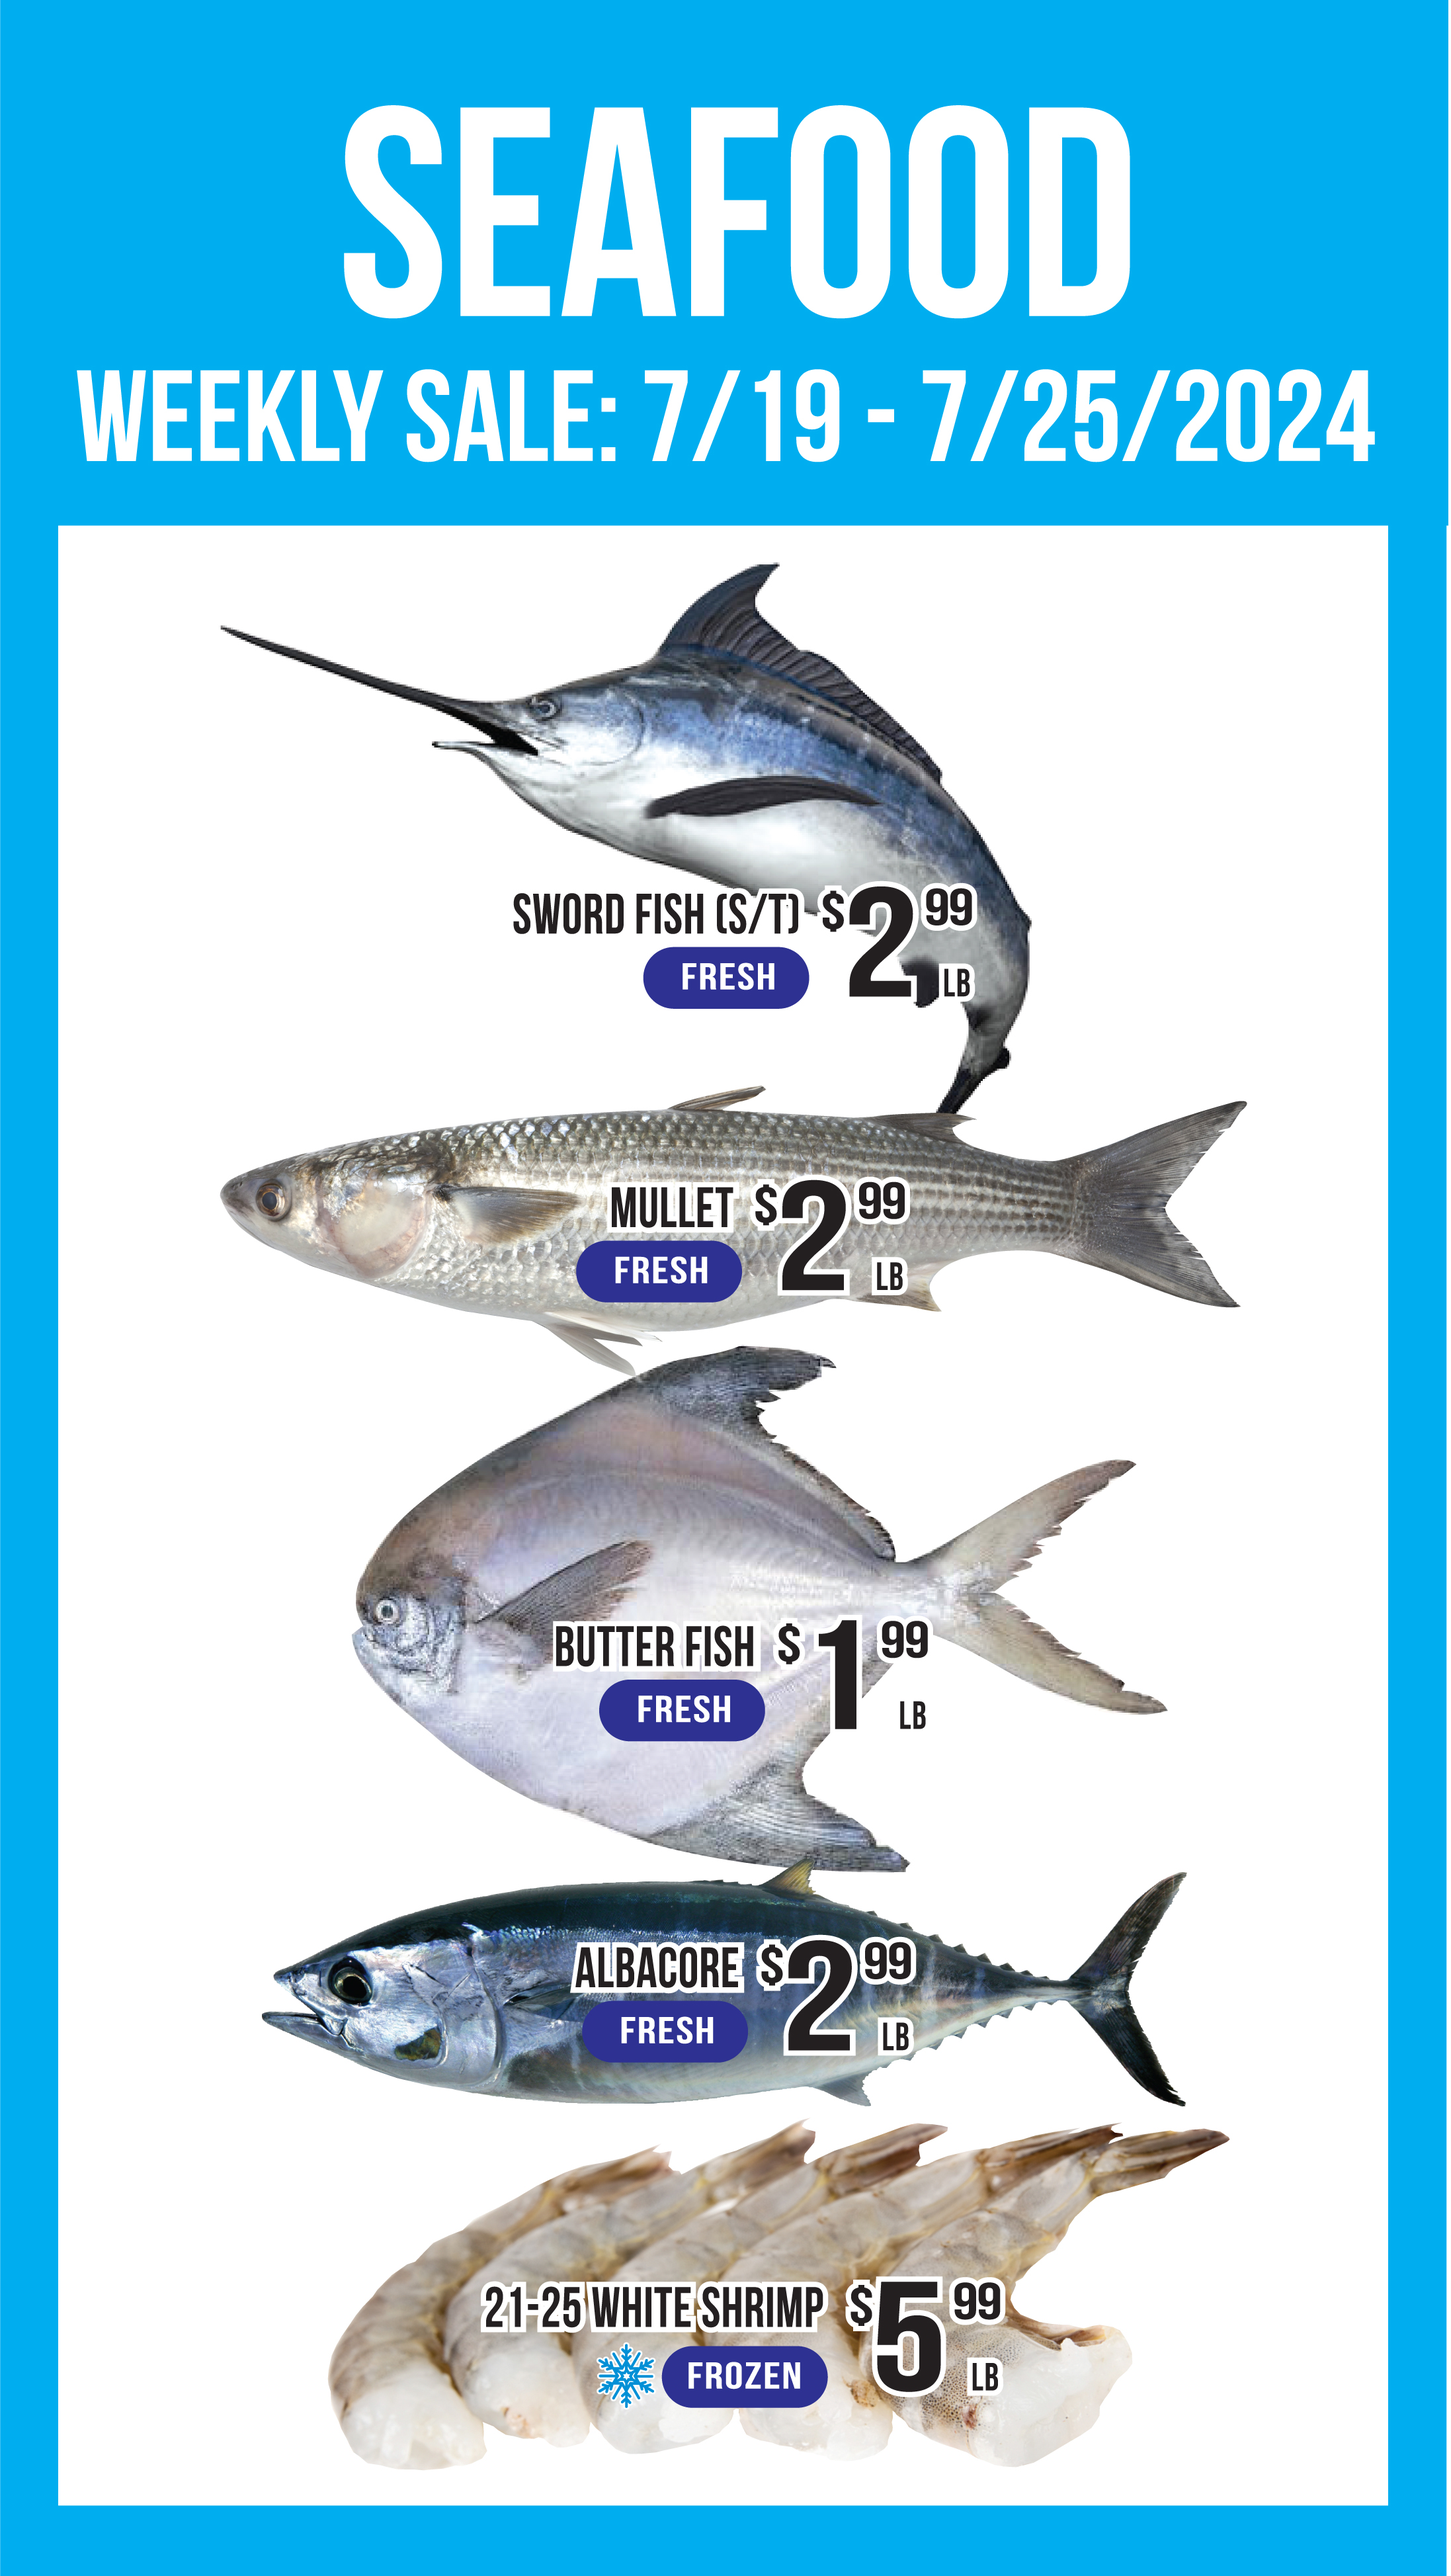
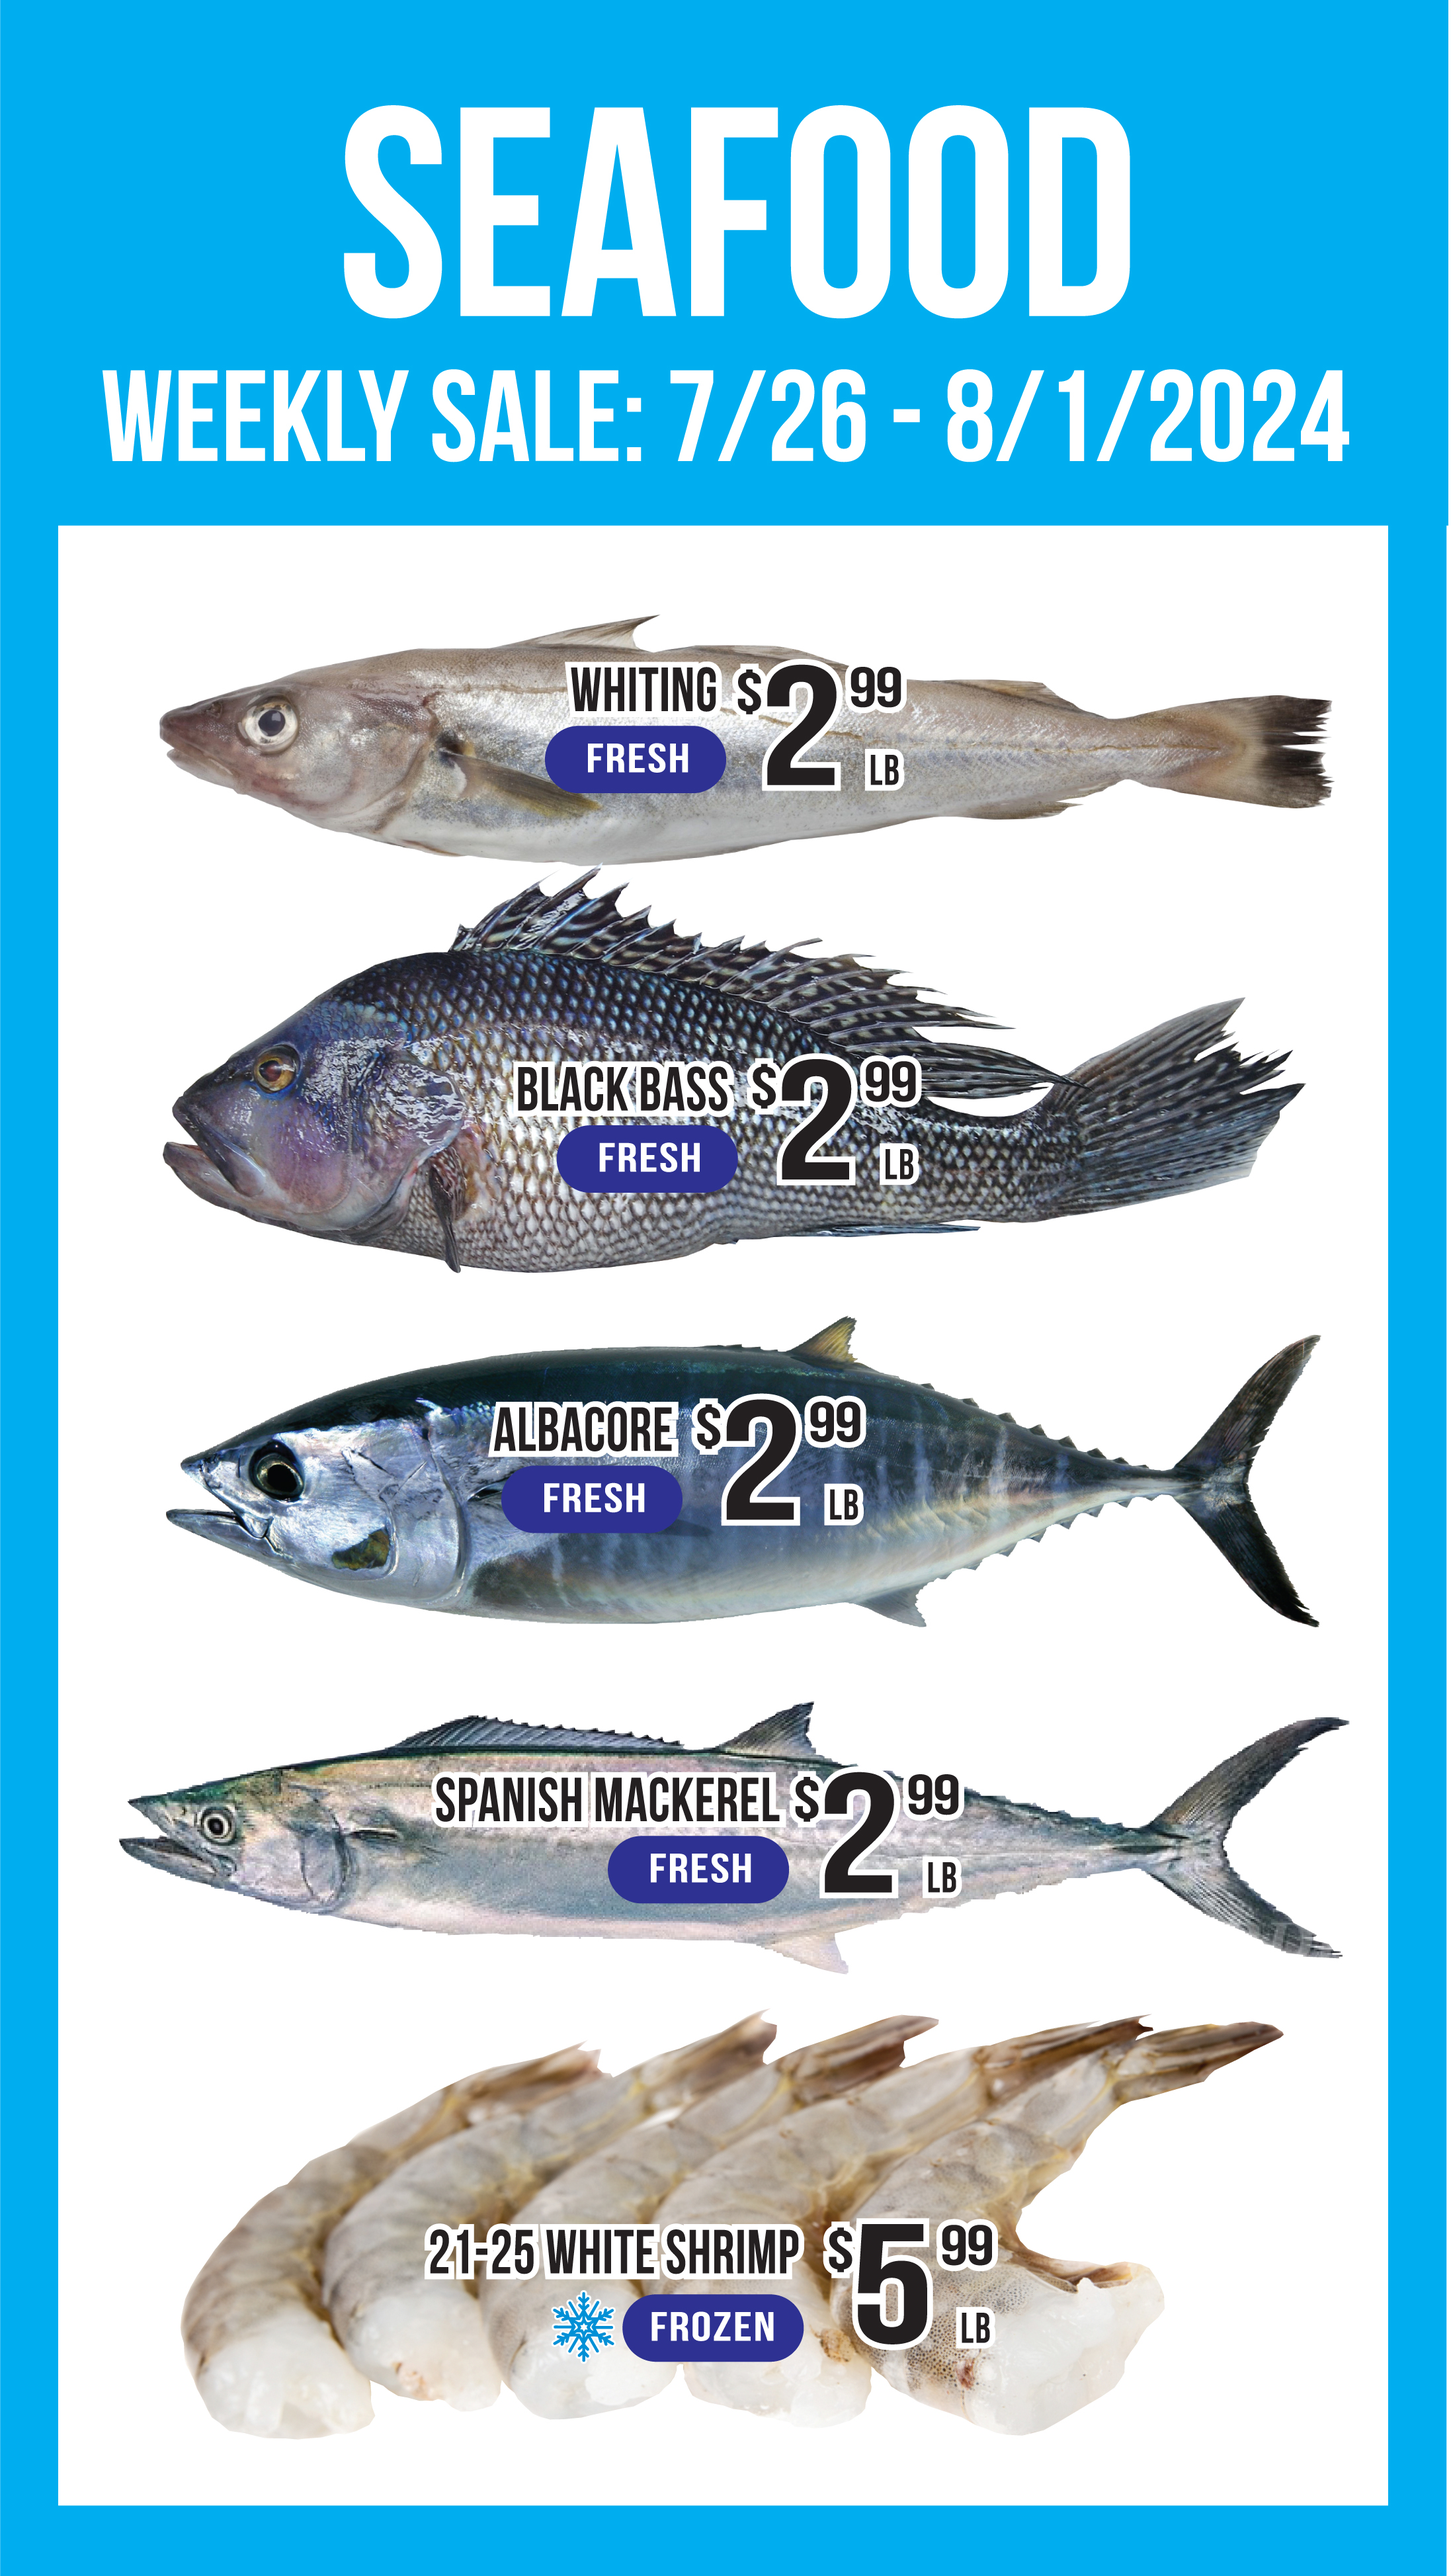
weekly

diff --git a/index.html b/index.html
@@ -64,16 +64,16 @@
           <img src="./public/assets/sp.jpg" class="d-block w-100 img-fluid" alt="...">
         </div> -->
         <div class="carousel-item center-carousel active">
-          <img src="./public/assets/weekly/meat.jpg?v=0719" class="img-fluid" alt="...">
+          <img src="./public/assets/weekly/meat.jpg?v=0726" class="img-fluid" alt="...">
         </div>
         <div class="carousel-item center-carousel">
-          <img src="./public/assets/weekly/veg.jpg?v=0719" class="img-fluid" alt="...">
+          <img src="./public/assets/weekly/veg.jpg?v=0726" class="img-fluid" alt="...">
         </div>
         <div class="carousel-item center-carousel">
-          <img src="./public/assets/weekly/fish.jpg?v=0719" class="img-fluid" alt="...">
+          <img src="./public/assets/weekly/fish.jpg?v=0726" class="img-fluid" alt="...">
         </div>
         <div class="carousel-item center-carousel">
-          <img src="./public/assets/weekly/grocery.jpg?v=0719" class="img-fluid" alt="...">
+          <img src="./public/assets/weekly/grocery.jpg?v=0726" class="img-fluid" alt="...">
         </div>
         <!-- <div class="carousel-item center-carousel">
           <img src="./public/assets/sale/grocery2.jpg?v=070623" class="img-fluid" alt="...">

diff --git a/deals.html b/deals.html
@@ -50,15 +50,15 @@
     <div class="row deal">
 
       <h2>English</h2>
-      <img class="img-fluid" src="./public/assets/weekly/english.jpg?v=0719">
+      <img class="img-fluid" src="./public/assets/weekly/english.jpg?v=0726">
 
       <br><br>
       <h2>Spanish</h2>
-      <img class="img-fluid" src="./public/assets/weekly/spanish.jpg?v=0719">
+      <img class="img-fluid" src="./public/assets/weekly/spanish.jpg?v=0726">
 
       <br>
       <h2>Korean</h2>
-      <img class="img-fluid" src="./public/assets/weekly/korean.jpg?v=0719">
+      <img class="img-fluid" src="./public/assets/weekly/korean.jpg?v=0726">
       <br>
       <br>
     </div>
